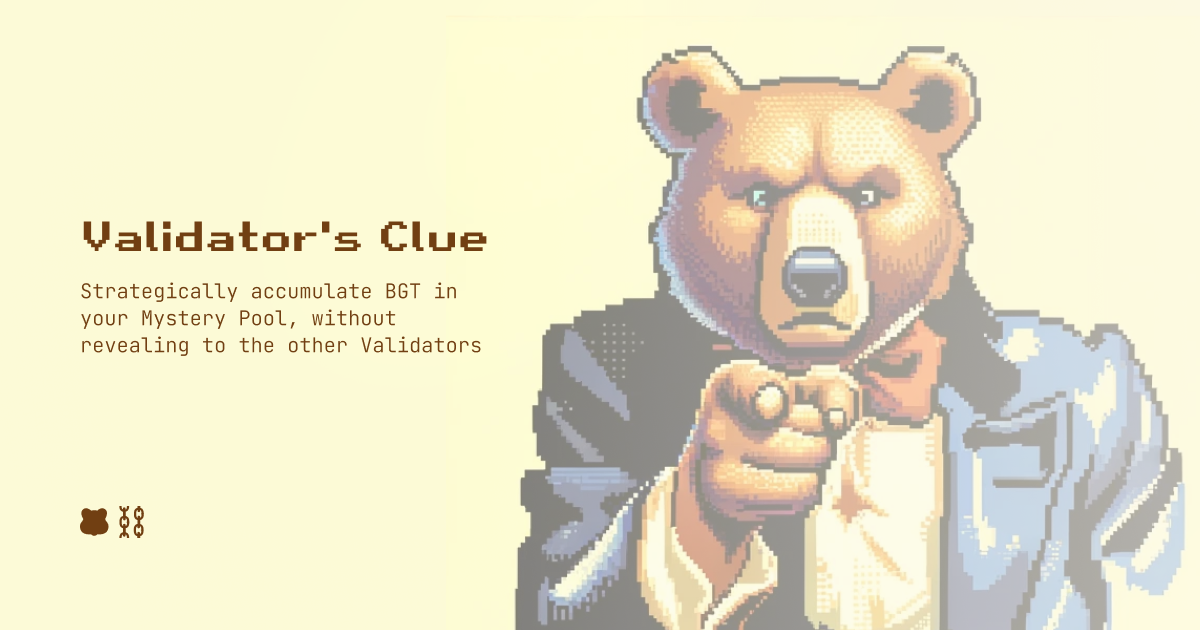
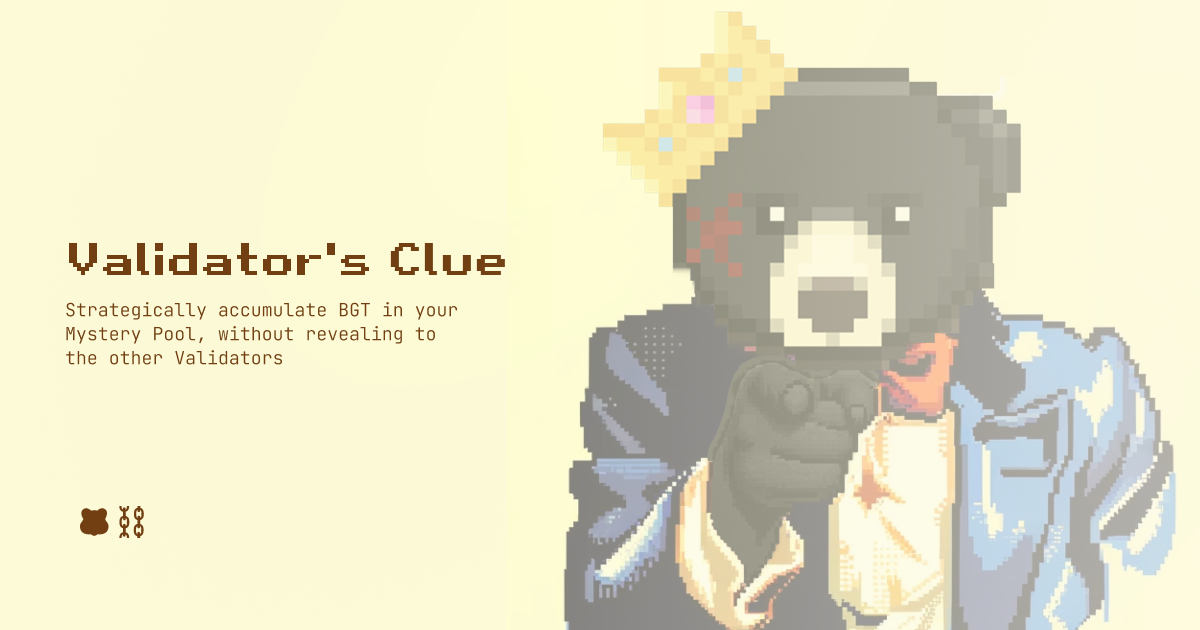
feedback-implemented

Changed region(s): [[0.4317, 0.0, 0.9867, 1.0], [0.0308, 0.3317, 0.4317, 0.6032]]

diff --git a/apps/validator-clue/src/components/vote-history.tsx b/apps/validator-clue/src/components/vote-history.tsx
@@ -1,5 +1,5 @@
-import Image from "next/image";
-import { cloudinaryUrl } from "@bera/config";
+// import Image from "next/image";
+// import { cloudinaryUrl } from "@bera/config";
 import {
   Accordion,
   AccordionContent,
@@ -7,7 +7,7 @@ import {
   AccordionTrigger,
 } from "@bera/ui/accordion";
 
-import { IMGMap } from "~/utils/image-map";
+// import { IMGMap } from "~/utils/image-map";
 import { usePollMe } from "~/hooks/usePollMe";
 
 export default function VoteHistory({
@@ -20,8 +20,8 @@ export default function VoteHistory({
   const { data: me } = usePollMe();
   const votes = me?.votes || [];
   return (
-    <div className="h-full flex-auto overflow-y-auto">
-      <div className="font-retro-gaming px-2 text-lg leading-7">
+    <div className="h-full flex-auto overflow-y-auto rounded-b-sm rounded-tl-none rounded-tr-sm border bg-muted py-4 md:rounded-sm">
+      <div className="font-retro-gaming hidden px-2 text-lg leading-7 md:block">
         Vote History
       </div>
       <Accordion
@@ -38,33 +38,33 @@ export default function VoteHistory({
               key={index}
               className="w-full"
             >
-              <AccordionTrigger className="rounded-md px-3 text-left text-xs hover:bg-yellow-100">
+              <AccordionTrigger className=" px-3 text-left text-xs hover:bg-yellow-200">
                 <div>
                   Epoch {vote.epochNumber} : <br /> Voted{" "}
-                  <span className="text-info-foreground">
+                  <span className="text-foreground">
                     {
                       validators.find((vali) => vali.address === vote.accused)
                         .name
                     }
                   </span>{" "}
                   owns{" "}
-                  <span className="text-info-foreground">
+                  <span className="text-foreground">
                     {pools.find((pool) => pool.address === vote.pool).name}
                   </span>
                 </div>
               </AccordionTrigger>
               <AccordionContent>
-                <div className="rounded-md bg-muted p-4 ">
+                <div className="border-b bg-background p-4">
                   <div className="mx-auto flex max-w-[300px] flex-col gap-4 text-center">
                     {vote.status && vote.status === "succesed" && (
                       <>
-                        <Image
+                        {/* <Image
                           src={`${cloudinaryUrl}/clue/${IMGMap["banner-img-vote"]}`}
                           alt="made-elimination"
                           width={272}
                           height={172}
                           className="mx-auto rounded-sm"
-                        />
+                        /> */}
                         <div className="font-retro-gaming text-lg leading-7">
                           You&apos;ve made an <br />
                           <span className="text-success-foreground">
@@ -75,17 +75,17 @@ export default function VoteHistory({
                     )}
 
                     {/* {vote.status && vote.status === "failed" && <> */}
-                    <Image
+                    {/* <Image
                       src={`${cloudinaryUrl}/clue/${IMGMap["guessed-wrong"]}`}
                       alt="guessed-wrong"
                       width={272}
                       height={172}
                       className="mx-auto rounded-sm"
-                    />
+                    /> */}
                     <div className="font-retro-gaming text-lg leading-7">
-                      You&apos;ve made an <br />
-                      <span className="text-destructive-foreground">
-                        mistake
+                      You guessed
+                      <span className="px-2 text-destructive-foreground">
+                        wrong
                       </span>
                     </div>
                     {/* </>} */}

diff --git a/apps/validator-clue/src/components/vote.tsx b/apps/validator-clue/src/components/vote.tsx
@@ -20,27 +20,27 @@ export default function Vote({
           <div
             className={cn(
               "font-retro-gaming cursor-pointer rounded-t-sm bg-background px-3 py-1 leading-6 text-muted-foreground",
-              tab === "vote" && "bg-foreground",
+              tab === "vote" && "bg-foreground text-muted",
             )}
             onClick={() => setTab("vote")}
           >
-            Pools
+            Vote
           </div>
           <div
             className={cn(
               "font-retro-gaming cursor-pointer rounded-t-sm bg-background px-3 py-1 leading-6 text-muted-foreground",
-              tab === "history" && "bg-foreground",
+              tab === "history" && "bg-foreground text-muted",
             )}
             onClick={() => setTab("history")}
           >
-            Validators
+            History
           </div>
         </div>
 
         {tab === "vote" && <VoteCard {...{ obituaries, ...props }} />}
         {tab === "history" && <VoteHistory {...props} />}
       </div>
-      <div className="hidden h-full w-full gap-4 rounded-sm bg-background p-4 md:flex ">
+      <div className="hidden h-full w-full gap-4 rounded-sm bg-background p-4 sm:rounded-tl-none md:flex md:rounded-tl-sm">
         <VoteCard {...{ obituaries, ...props }} />
         <VoteHistory {...props} />
       </div>

diff --git a/apps/validator-clue/src/utils/image-map.ts b/apps/validator-clue/src/utils/image-map.ts
@@ -2,16 +2,16 @@ export const IMGMap = {
   "vote-icon": "lzvauo1tnkidiakygjer",
   "rules-icon": "hknj5nus1vpvpruhhoq2",
   "leaderboard-icon": "r6by1rudonzfifmd7ex7",
-  "connect-wallet-bear": "z33lisipn7jridhtj6dh",
-  "sign-in-bear": "im7wb3nsx1g621of9fzn",
-  "vote-card-default": "xtj8nytqmpkytmzpjfjt",
-  "voted-wrong-mobile": "q36eg8tvjodjp10rimgq",
-  "voted-wrong-desktop": "i1o12houpo3zxtyszgw6",
-  "voted-correct-mobile": "cgv5g4qbb6h5j3elrugs",
-  "voted-correct-desktop": "hx3fvbhykyxaegyhfwjd",
+  "connect-wallet-bear": "xryzpoi4dbagvnntaw2k",
+  "sign-in-bear": "pxampibskuxmdrqczjms",
+  "vote-card-default": "uvspc36yino8udauhkxk",
+  "voted-wrong-mobile": "qkgc3nlszhaspebxsbnj",
+  "voted-wrong-desktop": "qkgc3nlszhaspebxsbnj",
+  "voted-correct-mobile": "l7tt4ezot8b7r8vxdx02",
+  "voted-correct-desktop": "l7tt4ezot8b7r8vxdx02",
   "got-eliminated": "dzvotowlkx3gzfr7vuav",
-  "guessed-wrong": "vwhl8pq40ktgry9ppzet",
-  "made-elimination": "xgwninwd1qc4lhq7kvm4",
-  "banner-img-vote": "iooxz4tqvyikdsjghqbg",
-  "banner-img-mint-honey": "ia8jax5zk2ufmkdvapms",
+  "guessed-wrong": "qkgc3nlszhaspebxsbnj",
+  "made-elimination": "l7tt4ezot8b7r8vxdx02",
+  "banner-img-vote": "c2r0nbyn6apyth9stp3p",
+  "banner-img-mint-honey": "npkvvybf15ewkhpx8fwt",
 };

diff --git a/apps/validator-clue/src/components/vote-card.tsx b/apps/validator-clue/src/components/vote-card.tsx
@@ -43,7 +43,7 @@ export default function VoteCard({
   }, [voteSuccess]);
 
   return (
-    <div className="flex h-full w-full items-center justify-center rounded-sm border border-border bg-[#FFFDD3] p-5 md:w-[320px]">
+    <div className="flex h-full w-full items-center justify-center rounded-b-sm rounded-tl-none rounded-tr-sm border border-border bg-[#FFFDD3] p-5 md:w-[320px] md:rounded-sm">
       {step === 0 && (
         <>
           {dead ? (
